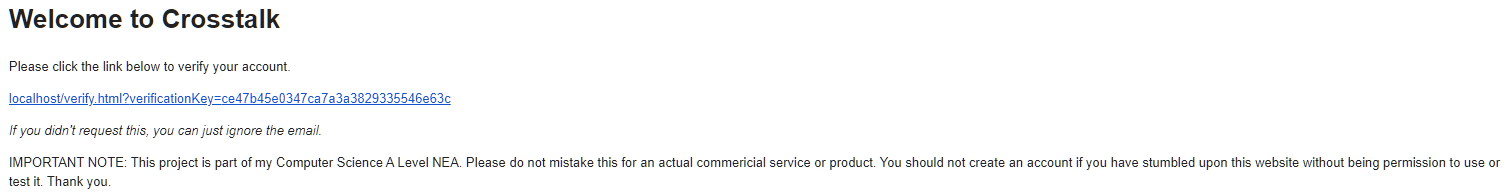
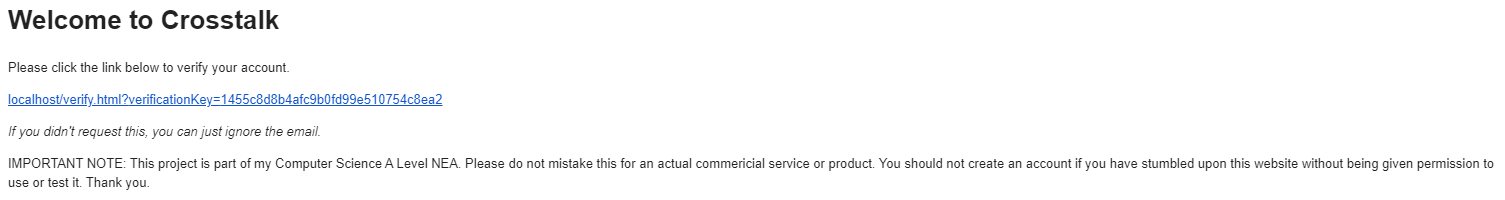
Fix documentation typo and associated images

diff --git a/src/server/custom-modules/mailer/mailer.js b/src/server/custom-modules/mailer/mailer.js
@@ -18,7 +18,7 @@ module.exports.SendVerification = (email, verificationKey) => {
     from: process.env.NM_USER,
     to: email,
     subject: 'Verify Your Account',
-    html: '<h1>Welcome to Crosstalk</h1><p>Please click the link below to verify your account.</p><a href="' + process.env.EXTERNAL_IP_ADDRESS + '/verify?verificationKey=' + verificationKey + '">' + process.env.EXTERNAL_IP_ADDRESS + '/verify?verificationKey=' + verificationKey + '</a><p><i>If you didn\'t request this, you can just ignore the email.</i></p><b>IMPORTANT NOTE: This project is my Computer Science A Level NEA. Please do not mistake this for an actual commericial service or product. You should not create or use an account if you have stumbled upon this website without being permission to use or test it. Thank you.</b>'
+    html: '<h1>Welcome to Crosstalk</h1><p>Please click the link below to verify your account.</p><a href="' + process.env.EXTERNAL_IP_ADDRESS + '/verify?verificationKey=' + verificationKey + '">' + process.env.EXTERNAL_IP_ADDRESS + '/verify?verificationKey=' + verificationKey + '</a><p><i>If you didn\'t request this, you can just ignore the email.</i></p><b>IMPORTANT NOTE: This project is my Computer Science A Level NEA. Please do not mistake this for an actual commericial service or product. You should not create or use an account if you have stumbled upon this website without being given permission to use or test it. Thank you.</b>'
   };
 
   transporter.sendMail(mailOptions, (error, info) => {
@@ -31,7 +31,7 @@ module.exports.SendRecovery = (email, recoveryKey) => {
     from: process.env.NM_USER,
     to: email,
     subject: 'Recover Your Account',
-    html: '<h1>Crosstalk</h1><p>Please click the link below to recover your account by resetting your password.</p><a href="' + process.env.EXTERNAL_IP_ADDRESS + '/account/change-password?recoveryKey=' + recoveryKey + '">' + process.env.EXTERNAL_IP_ADDRESS + '/account/change-password?recoveryKey=' + recoveryKey + '</a><p><i>If you didn\'t request this, you can just ignore the email.</i></p><b>IMPORTANT NOTE: This project is my Computer Science A Level NEA. Please do not mistake this for an actual commericial service or product. You should not create or use an account if you have stumbled upon this website without being permission to use or test it. Thank you.</b>'
+    html: '<h1>Crosstalk</h1><p>Please click the link below to recover your account by resetting your password.</p><a href="' + process.env.EXTERNAL_IP_ADDRESS + '/account/change-password?recoveryKey=' + recoveryKey + '">' + process.env.EXTERNAL_IP_ADDRESS + '/account/change-password?recoveryKey=' + recoveryKey + '</a><p><i>If you didn\'t request this, you can just ignore the email.</i></p><b>IMPORTANT NOTE: This project is my Computer Science A Level NEA. Please do not mistake this for an actual commericial service or product. You should not create or use an account if you have stumbled upon this website without being given permission to use or test it. Thank you.</b>'
   };
 
   transporter.sendMail(mailOptions, (error, info) => {
@@ -44,7 +44,7 @@ module.exports.SendChangeNotification = (displayName, email) => {
     from: process.env.NM_USER,
     to: email,
     subject: 'Notification of Password Change',
-    html: '<h1>Crosstalk</h1><p>Dear ' + displayName + ',</p><p>This automated email is to let you know that the password associated with your account was just changed. If this was you, you do not need to take any further action.</p><b>IMPORTANT NOTE: This project is my Computer Science A Level NEA. Please do not mistake this for an actual commericial service or product. You should not create or use an account if you have stumbled upon this website without being permission to use or test it. Thank you.</b>'
+    html: '<h1>Crosstalk</h1><p>Dear ' + displayName + ',</p><p>This automated email is to let you know that the password associated with your account was just changed. If this was you, you do not need to take any further action.</p><b>IMPORTANT NOTE: This project is my Computer Science A Level NEA. Please do not mistake this for an actual commericial service or product. You should not create or use an account if you have stumbled upon this website without being given permission to use or test it. Thank you.</b>'
   };
 
   transporter.sendMail(mailOptions, (error, info) => {
